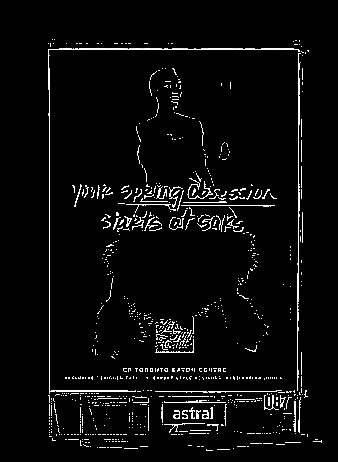
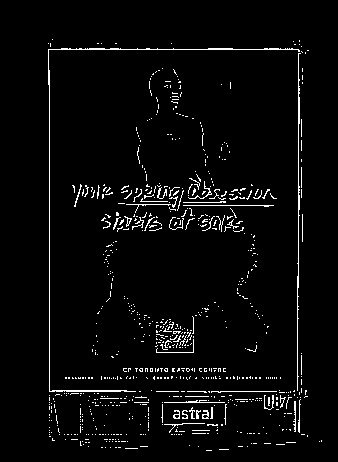
started keeping only the cells with max gradiant in the matrix

Changed region(s): [[0.2663, 0.8485, 0.2959, 0.8788]]

diff --git a/tryingHoughLines.py b/tryingHoughLines.py
@@ -39,17 +39,19 @@ kernel_size = 3
 window_name = "Laplace Demo"
 edges=cv2.Laplacian(gray, ddepth, ksize=kernel_size)#a matrix
 
-
+np.set_printoptions(threshold=np.inf)
 print(edges)
-
+print(len(edges))
+maxValue=helpFunctions.findLinesByMaxGrad(edges)
 #filtering
 for y in range (len(edges)):
     for x in range (len(edges[y])):
-        if(edges[y][x]<220):
+        if(edges[y][x]<maxValue):
             edges[y][x] = 0
 
 
-
+np.set_printoptions(threshold=np.inf)
+print(edges)
 
 # [convert]
 # converting back to uint8
@@ -74,14 +76,14 @@ plt.show()
 lines = cv2.HoughLines(edges, 1, np.pi / 180, 180)
 
 
-
-# The below for loop runs till r and theta values
-# are in the range of the 2d array
 print(lines)
 lines = helpFunctions.lines_to_map(lines)
 print("print final lines \n ")
 print(lines)
 
+
+# The below for loop runs till r and theta values
+# are in the range of the 2d array
 for r_theta in lines:
     arr = np.array(r_theta[0], dtype=np.float64)
     r, theta = arr

diff --git a/helpFunctions.py b/helpFunctions.py
@@ -116,3 +116,5 @@ def findVer(vertices):
     for x,y in cleaned:
         True
 
+def findLinesByMaxGrad(imgMatrix):
+    return np.amax(imgMatrix)
